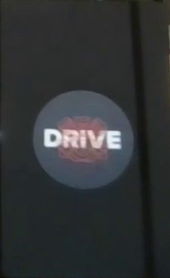
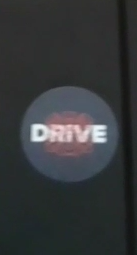
working V3

diff --git a/tracking.py b/tracking.py
@@ -229,6 +229,147 @@ def color_based_tracking(target_histogram: np.array, target_cov_matrix:np.array,
     cv.destroyAllWindows()
     
     return final_track_results
+
+def brightness_normalization(target: np.array, search: np.array):
+    for i in range(0, 3):
+        target[:,:,i] = target[:,:,i] - np.mean(target[:,:,i])
+        search[:,:,i] = search[:,:,i] - np.mean(search[:,:,i])
+    
+    return target, search
+
+def bn_color_based_tracking(target_img: np.array, dimensions: tuple, source_file:str, debug:bool):
+    cap = cv.VideoCapture(source_file)
+
+    if not cap.isOpened():
+        exit()
+        return
+    
+    ret, frame = cap.read()
+
+    frame = cv.cvtColor(frame, cv.COLOR_BGR2RGB)
+    scaled_frame = scale_down_img(frame)
+    # bbox locations, similarity value, hist
+    initial_location = ([(0, 0), (0,0), (0,0), (0,0)], 0, 0)
+    xy_centers = (0,0)
+    region_num = 0
+    initial_cov_match = 1000000000000
+    new_dimensions = dimensions
+    scales = [.8,.9,1.0, 1.1,1.2]
+
+    for scale in scales:
+        for x in range(0, scaled_frame.shape[0] - dimensions[0]):
+            for y in range(0, scaled_frame.shape[1] - dimensions[1]):
+                if debug:
+                    print("region num " + str(region_num))
+                    region_num += 1
+
+                region = scaled_frame[x:x+dimensions[0], y:y+dimensions[1]]
+                region = ndimage.zoom(region, (scale, scale, 1))
+                new_dimensions = (int(dimensions[0] * 1/scale), int(dimensions[1] * 1/scale))
+
+                normalized_target, region = brightness_normalization(np.copy(target_img), np.copy(region))
+
+                hist = create_color_hist(region)
+                cov_matrix = create_cov_matrix(region)
+
+                target_cov_matrix = create_cov_matrix(normalized_target)
+                target_histogram = create_color_hist(normalized_target)
+
+                gen_eigen_vals, _ = linalg.eigh(target_cov_matrix, cov_matrix)
+
+                cov_similarity = 0
+                for eig in gen_eigen_vals:
+                    if eig != 0:
+                        cov_similarity += np.log(eig) ** 2
+                
+                cov_similarity = np.sqrt(cov_similarity)
+
+                similarity = np.sum(np.sqrt(target_histogram * hist))
+
+                if similarity > initial_location[1] and cov_similarity < initial_cov_match:
+                    xy_centers = (x + new_dimensions[0]//2,y + new_dimensions[1]//2)
+                    initial_location = ([(xy_centers[0] - max(new_dimensions)//2, xy_centers[1] - max(new_dimensions)//2), (xy_centers[0] - max(new_dimensions)//2, xy_centers[1] + max(new_dimensions)//2), (xy_centers[0] + max(new_dimensions)//2, xy_centers[1] - max(new_dimensions)//2), (xy_centers[0] + max(new_dimensions)//2, xy_centers[1] + max(new_dimensions)//2)], similarity, hist)
+                    initial_cov_match = cov_similarity
+                    
+    if debug:
+        print("initial location: ", initial_location[0], initial_location[1])
+        _, ax = plt.subplots()
+        # io.imshow(frame)
+        bbox = np.array(initial_location[0]).reshape(4,2)
+        # plt.plot(bbox[:,1], bbox[:,0], 'ro')
+        # plt.plot(xy_centers[1], xy_centers[0], 'bo')
+        # plt.show()
+        cv.rectangle(frame, (int(bbox[0][1]* 10 ), int(bbox[0][0] * 10)), (int(bbox[3][1] * 10), int(bbox[3][0]* 10)), (0,255,0), 2)
+        frame = cv.cvtColor(frame, cv.COLOR_RGB2BGR)
+        cv.imshow("Frame", frame)
+
+        cv.waitKey(0)
+        cv.destroyAllWindows()
+            
+    
+    final_track_results = [(xy_centers, np.array(initial_location[0]).reshape(4,2))]
+    dimensions = new_dimensions
+
+    while ret:
+        ret, frame = cap.read()
+
+        if not ret:
+            break
+    
+        for scale in scales:
+            frame = cv.cvtColor(frame, cv.COLOR_BGR2RGB)
+            scaled_frame = scale_down_img(frame)
+
+            last_xy, last_bbox = final_track_results[-1]
+            current_match = (last_bbox, 0, 0)
+            current_cov_match = 1000000000000
+            
+            neighbor_regions = circularNeighbors(scaled_frame, last_xy[0], last_xy[1], dimensions)
+            for region, loc in neighbor_regions:
+                region = ndimage.zoom(region, (scale, scale, 1))
+                new_dimensions = (int(dimensions[0] * 1/scale), int(dimensions[1] * 1/scale))
+                normalized_target, region = brightness_normalization(np.copy(target_img), np.copy(region))
+
+                hist = create_color_hist(region)
+                cov_matrix = create_cov_matrix(region)
+
+                target_cov_matrix = create_cov_matrix(normalized_target)
+                target_histogram = create_color_hist(normalized_target)
+
+                similarity = np.sum(np.sqrt(target_histogram * hist))
+
+                gen_eigen_vals, _ = linalg.eigh(target_cov_matrix, cov_matrix)
+
+                cov_similarity = 0
+                for eig in gen_eigen_vals:
+                    if eig != 0:
+                        cov_similarity += np.log(eig) ** 2
+                
+                cov_similarity = np.sqrt(cov_similarity)
+
+                if similarity > current_match[1] and cov_similarity < current_cov_match:
+                    similarity = similarity * (1 - cov_similarity)
+                    current_xy = (int(np.mean([last_xy[0], loc[0]])), int(np.mean([last_xy[1], loc[1]])))
+                    current_match = ([(current_xy[0] - max(new_dimensions)//2,current_xy[1] - max(new_dimensions)//2),(current_xy[0] - max(new_dimensions)//2, current_xy[1] + max(new_dimensions)//2), (current_xy[0] + max(new_dimensions)//2, current_xy[1] - max(new_dimensions)//2), (current_xy[0] + max(new_dimensions)//2, current_xy[1] + max(new_dimensions)//2)], similarity, hist)
+                    current_cov_match = cov_similarity
+                                    
+        if debug:
+            print("best match in frame: ", current_match[0], current_match[1])
+            _, ax = plt.subplots()
+            io.imshow(scaled_frame)
+            plt.plot(current_xy[1], current_xy[0], 'bo')
+            plt.plot(np.array(current_match[0]).reshape(4,2)[:,1], np.array(current_match[0]).reshape(4,2)[:,0], 'ro')
+            plt.show()
+
+        final_track_results.append((current_xy, np.array(current_match[0]).reshape(4,2)))
+    
+    for i in range(len(final_track_results)):
+        final_track_results[i] = final_track_results[i][1] * 10
+        
+    cap.release()
+    cv.destroyAllWindows()
+    
+    return final_track_results
     
 def template_matching(img_file,video_file):
 

diff --git a/main.py b/main.py
@@ -1,10 +1,11 @@
 import sys
-from descriptor import generate_covariance_matrix, generate_color_histogram
-from tracking import color_based_tracking, covariance_tracking,template_matching
+from descriptor import generate_covariance_matrix, generate_color_histogram, bn_generate_color_histogram
+from tracking import color_based_tracking, covariance_tracking,template_matching,  bn_color_based_tracking
 import cv2 as cv
 from skimage import io
 import matplotlib.pyplot as plt
 import numpy as np
+from scipy import ndimage
 
 def main(target_img: str, source_file: str, type: str, debug: bool):
     # go across different version types and run corresponding one
@@ -32,6 +33,25 @@ def main(target_img: str, source_file: str, type: str, debug: bool):
                 break
             frame_num += 1
             ret, frame = cap.read()
+    if type == "V3":
+        target_img, dimensions = bn_generate_color_histogram(target_img, debug)
+        track_results = bn_color_based_tracking(target_img, dimensions, source_file, debug)
+
+        cap = cv.VideoCapture(source_file)
+        if not cap.isOpened():
+            exit()
+            return
+    
+        ret, frame = cap.read()
+        frame_num = 0
+        while ret:  
+            cv.rectangle(frame, (int(track_results[frame_num][0][1]), int(track_results[frame_num][0][0])), (int(track_results[frame_num][3][1]), int(track_results[frame_num][3][0])), (0,255,0), 2)
+
+            cv.imshow("Frame", frame)
+            if cv.waitKey(0) & 0xFF == ord('q'):
+                break
+            frame_num += 1
+            ret, frame = cap.read()
     elif type == "D1":
         cap = cv.VideoCapture(source_file)
         if not cap.isOpened():
@@ -41,7 +61,11 @@ def main(target_img: str, source_file: str, type: str, debug: bool):
         ret, frame = cap.read()
         cv.imwrite(target_img, frame)
         cap.release()
-        cv.destroyAllWindows()            
+        cv.destroyAllWindows() 
+    elif type == "D2":
+        img = cv.imread(target_img)
+        img = ndimage.zoom(img, (0.8, 0.8, 1))
+        cv.imwrite("data/targets/book_small.png", img)      
 
 if __name__ == "__main__":
     args = sys.argv

diff --git a/descriptor.py b/descriptor.py
@@ -60,7 +60,6 @@ def gauss_deriv_2D(sigma, img, debug):
 
 def generate_color_histogram(target_img_path:str, debug:bool) -> tuple:
     img = io.imread(target_img_path)
-    print(img.shape)
     img = ndimage.zoom(img, (0.1, 0.1, 1))
     
     hist = np.zeros(shape=(16, 16, 16))
@@ -87,3 +86,10 @@ def generate_color_histogram(target_img_path:str, debug:bool) -> tuple:
 
 
     return hist, cov_matrix, img.shape
+
+def bn_generate_color_histogram(target_img_path:str, debug:bool) -> tuple:
+    img = cv.imread(target_img_path)
+    img = cv.cvtColor(img, cv.COLOR_BGR2RGB)
+    img = ndimage.zoom(img, (0.1, 0.1, 1))
+
+    return img, img.shape 
